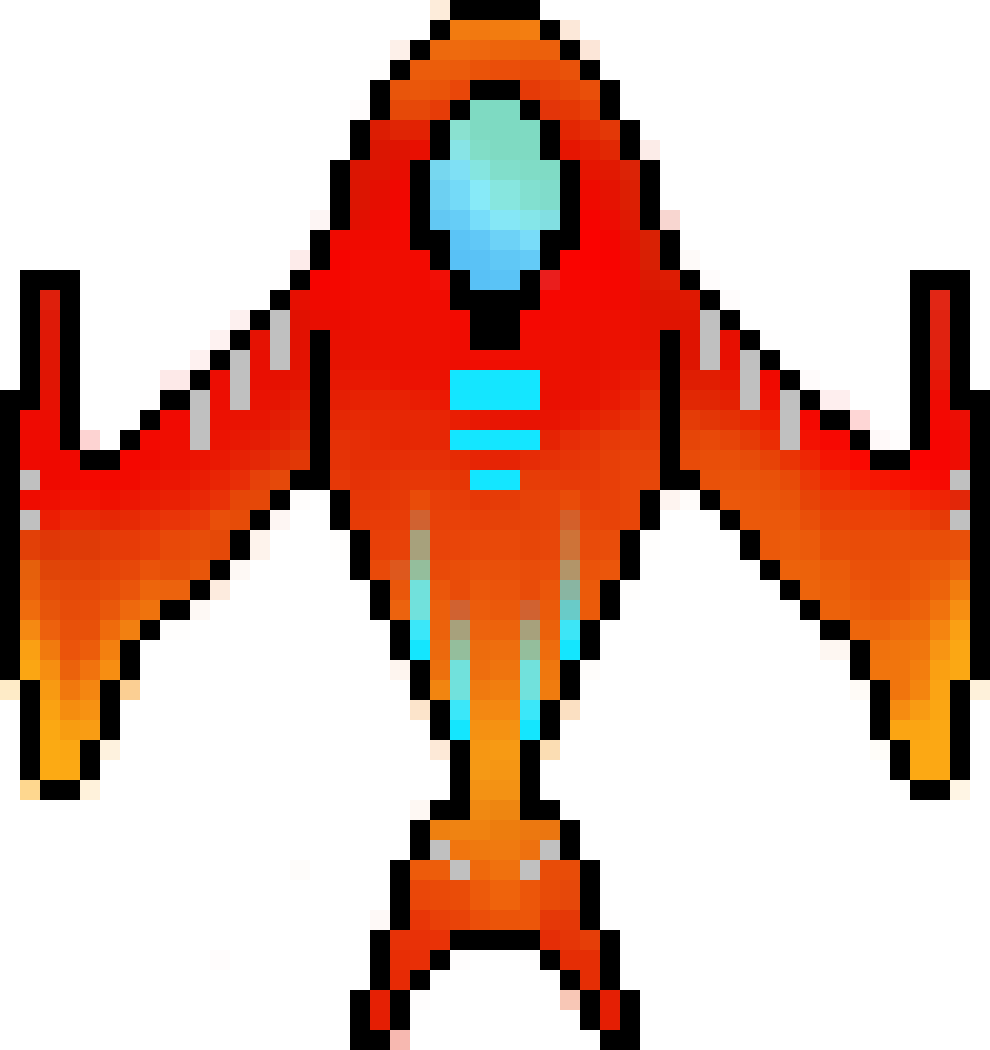
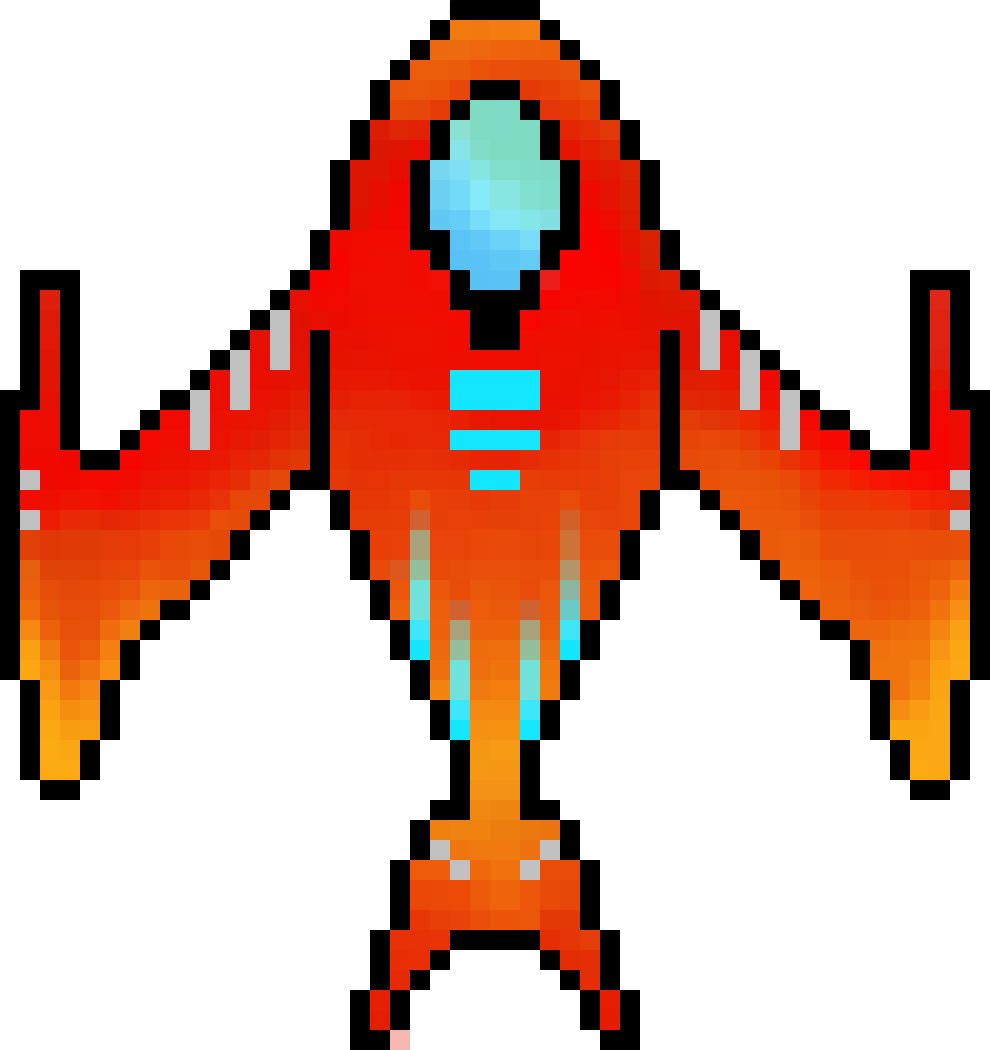
Script Update
Player behavior
Clean player png
Enemy behavior

diff --git a/Assets/Monsters/Marley/Player.cs b/Assets/Monsters/Marley/Player.cs
@@ -1,20 +1,72 @@
 using System.Collections;
 using System.Collections.Generic;
 using UnityEngine;
+using UnityEngine.SceneManagement;
+
+using coins = CurrencyManager.Instance.Currency;
+using posX = transform.position.x;
+using posY = transform.position.y;
 
 // This Script controlls player input behavior
-
 public class Player : MonoBehaviour
 {
-    // Start is called before the first frame update
-    void Start()
-    {
-        
-    }
+    /* 
+    limitX: Halved horizontal limit from 0.
+    limitY: Halved Vertical limit from 0.
+    speed: Speed of the rocket.
+    offset: Puts projectile forward.
+    */
+    const float limitX, limitY, speed, offset;
+    limitY = 4.5f; 
+    limitX = 8f; 
+    speed = 3f;
+    offset = 0.8f;
+
+    const
+
+    public GameObject projectile;
 
     // Update is called once per frame
     void Update()
-    {
-        
+    {   
+        playerMovement();
+        if (Input.GetMouseButtonDown || Input.GetKeyDown(KeyCode.Space))
+            spawnProjectile();
     }
+
+    void spawnProjectile() {
+        Vector 3 vec = new Vector 3(posX + offset, posY, 0);
+        Instantiate(projectile, vec, Quaternion.identity);
+    }
+
+    /* 
+    Moves the Player token if WASD is detected.
+    Input: None. OutPut: None
+     */
+    void playerMovement() {
+        // UP
+        if (Input.GetKey(KeyCode.W) && posY <= limitY)
+            transform.Translate(0, speed * Time.deltaTime, 0);
+        // LEFT
+        if (Input.GetKey(KeyCode.A) && posX >= -limitX)
+            transform.Translate(- speed * Time.deltaTime, 0, 0);
+        // DOWN
+        if (Input.GetKey(KeyCode.S) && posY >= -limitY)
+            transform.Translate(0, - speed * Time.deltaTime, 0);
+        // RIGHT
+        if (Input.GetKey(KeyCode.D) && posX <= limitX)
+            transform.Translate(speed * Time.deltaTime, 0, 0);        
+    }
+
+    /* 
+    Removes a Coin if an enemy is intercepted.
+    Input: Collision container. Output: None.
+     */
+    private void OnCollisionEnter2D(Collision2D other) {
+        if (other.gameObject.tag == "Enemy") lessCoin(); 
+    }
+
+    /* Currency Instance Handlers */
+    private void moreCoin() { coins++; }
+    private void lessCoin() { if (coins > 0) coins--; }
 }

diff --git a/Assets/Monsters/Marley/Enemy.cs b/Assets/Monsters/Marley/Enemy.cs
@@ -1,0 +1,49 @@
+using System.Collections;
+using System.Collections.Generic;
+using UnityEngine;
+using UnityEngine.SceneManagement;
+
+using coins = CurrencyManager.Instance.Currency;
+using posX = transform.position.x;
+using posY = transform.position.y;
+
+// This Script controlls static enemy behavior
+public class Enemy : MonoBehaviour
+{
+    /* 
+    limitX: Halved horizontal limit from 0.
+    speed: Speed of the enemy.
+    */
+    float speed = 2f;
+
+    float limitX = -15f;
+
+    /* 
+    Implement Spawn from a scene Controller
+    float spawnX = 15f;
+    float spawnY = 0f;
+    */
+
+    // Update is called once per frame
+    void Update()
+    {
+        enemyMovement();
+        if (gameObject.transform.position.x <= limitX) redButton();
+    }
+
+    /* Controlls enemy movement */
+    void enemyMovement() {
+        transform.Translate(0, speed * Time.deltaTime, 0);
+    }
+
+    /* 
+    Explodes if the Player is intercepted.
+    Input: Collision container. Output: None.
+     */
+    private void OnCollisionEnter2D(Collision2D other) {
+        if (other.gameObject.tag == "Player");
+        // it should destroy itself
+    }
+
+    void redButton() { Destroy(gameObject); }
+}
